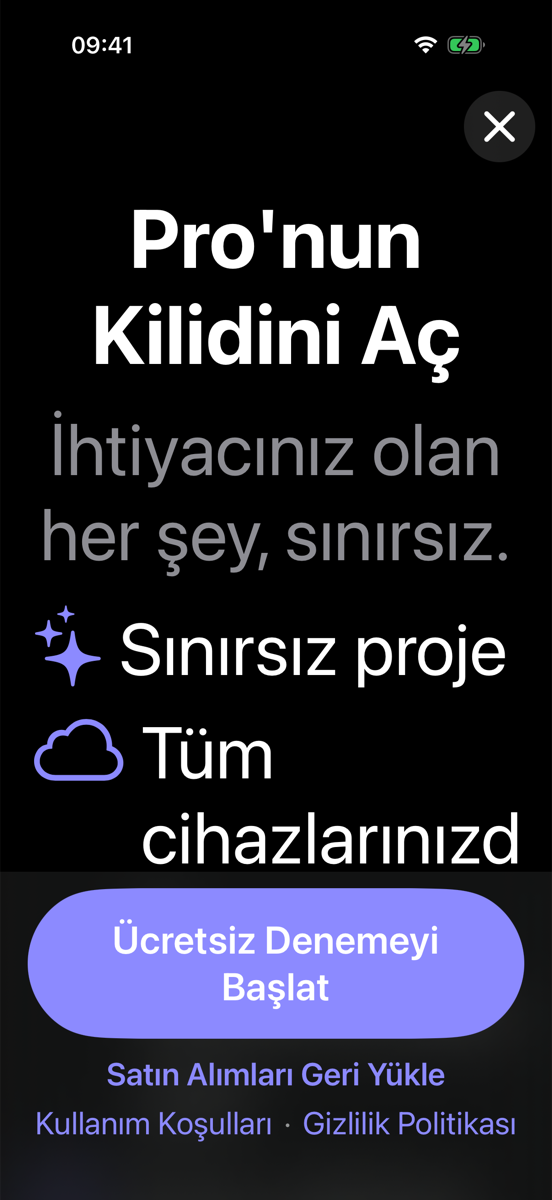
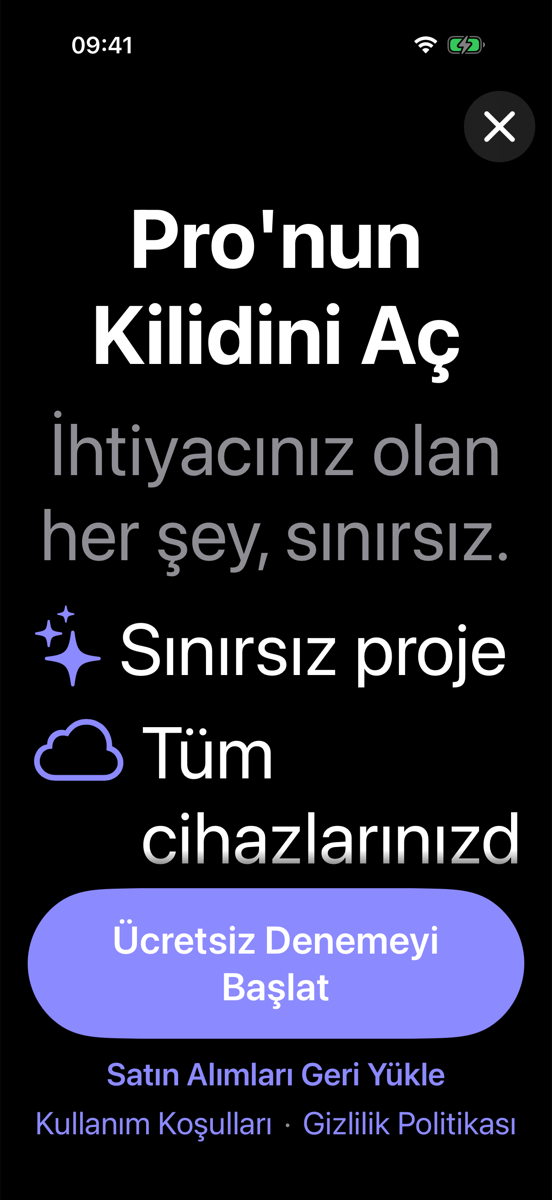
Refresh screenshots, vault GIF and README for the updated templates

diff --git a/README.md b/README.md
@@ -36,8 +36,8 @@ These guarantees hold for **every template**.
 | --- | --- |
 | **The billed amount is the most prominent price** (Guideline 3.1.2(c)) | `PlanCard` renders prices only through `PriceHierarchy`; there is no API to pass it arbitrary price text. The billed amount (`₺599,99/yıl`) is bold, primary color and the largest price style. Calculated equivalents (`≈ ₺11,54/hafta`) and trial descriptions are always regular weight, secondary color and a strictly smaller text style — `PriceTypography` lowers any style that would violate this. A weekly plan never shows a "weekly equivalent". |
 | **The close button is visible immediately** | `CloseButton` is drawn unconditionally in the first frame: no delay, no fade-in, no option to hide it. 44×44 pt hit area, VoiceOver label. |
-| **Restore, Terms and Privacy are always visible** | They live in a footer pinned to the bottom, outside the scroll view, and stay visible while loading, on error and while scrolling. `termsOfServiceURL` and `privacyPolicyURL` are non-optional. |
-| **Subscription terms are disclosed** | `SubscriptionDisclosure` shows the auto-renewal text (and the free trial terms when applicable) under the plans. |
+| **Restore, Terms and Privacy are always visible** | They live in an opaque area pinned to the bottom, outside the scroll view, and stay visible while loading, on error and while scrolling. The area is filled with the template's background color (with a 24 pt fade on top), so scrolled content never shows through it. `termsOfServiceURL` and `privacyPolicyURL` are non-optional. |
+| **Subscription terms are disclosed** | `SubscriptionDisclosure` shows the auto-renewal text (and the free trial terms when applicable) either directly below the plans or fully visible in the pinned area — never cut off behind it. |
 | **Trials state what is charged afterwards** | A trial plan shows "Free for 3 days, then $59.99/year" in addition to the billed amount. |
 
 ## Installation
@@ -165,7 +165,9 @@ PaywallView(title: "Unlock Pro", features: features, configuration: configuratio
 ### `.comparison`
 
 Dark background with gold accents, a Free vs. Pro table (the Pro column sits on a gold
-strip), a vertical plan list and a gold button.
+strip), a vertical plan list and a gold button. The preselected plan is listed first and the
+disclosure sits in the pinned area, so the table, the selected plan and the disclosure fit on
+the first screen of an iPhone 17 Pro.
 
 ```swift
 PaywallView(
@@ -184,7 +186,8 @@ PaywallView(
 
 Dark background, a glowing gold lock with two slowly rotating orbit rings, plans as a
 two-part segment (designed for two products) and a slide-to-confirm control instead of a
-button. Sliding past 85% plays a success haptic, opens the lock's shackle and starts the
+button. Prices on the compact plan cards stay on one line: the billed amount shrinks to at most
+80% (units are never abbreviated), and only while it stays larger than the secondary lines. Sliding past 85% plays a success haptic, opens the lock's shackle and starts the
 purchase; releasing earlier springs the thumb back.
 
 ```swift
@@ -210,17 +213,18 @@ SlideToConfirm(title: "Slide to confirm", buttonTitle: "Confirm") {
 
 ### `.stories`
 
-Full-screen pages with segmented progress bars. Each page lasts 5 seconds; tap the right side
-to go forward, the left side to go back, press and hold to pause. Plans, disclosure, button and
-links stay in a fixed bottom panel on every page, so users can buy before the story ends. The
-`header` closure is not shown — the pages are the content.
+Full-screen pages on multi-color gradients with segmented progress bars. Each page lasts 5
+seconds; tap the right side to go forward, the left side to go back, press and hold to pause.
+Page content can be interactive (the demo has a before/after slider). Plans, disclosure, button
+and links stay in an opaque, rounded bottom panel on every page, so users can buy before the
+story ends. The `header` closure is not shown — the pages are the content.
 
 ```swift
 PaywallView(
     configuration: configuration,
     style: .stories(pages: [
         PaywallStoryPage(caption: "Pro · 1 of 3", title: "Unlimited projects",
-                         background: [.indigo, .black]) {
+                         background: [.orange, .pink, .purple, .black]) {
             Image(systemName: "square.stack.3d.up.fill").font(.system(size: 64))
         },
         PaywallStoryPage(caption: "Pro · 2 of 3", title: "Sync everywhere",
@@ -379,7 +383,8 @@ open Examples/PaywallKitDemo/PaywallKitDemo.xcodeproj
 - A **Template** picker switches between Classic, Comparison, Vault and Stories.
 - Launch arguments: `-showPaywall` opens the paywall on launch, `-paywallStyle vault` (or
   `classic`, `comparison`, `stories`) picks the template, `-useStoreKit` starts with the StoreKit
-  provider, `-slowProducts` makes the fake provider take 3 seconds to load.
+  provider, `-slowProducts` makes the fake provider take 3 seconds to load, `-purchaseDelay 2.5`
+  sets how long the fake provider takes to load and purchase.
 
 The demo's bundle identifier is the placeholder `com.example.PaywallKitDemo`. Choose your own team
 in Signing & Capabilities to run it on a device.
